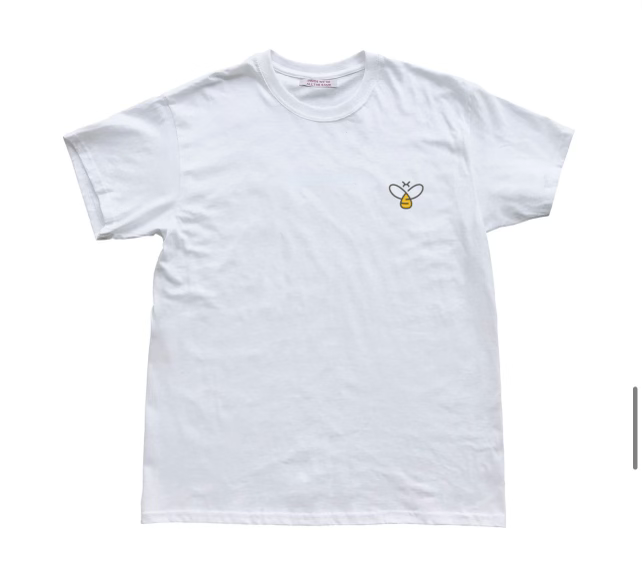
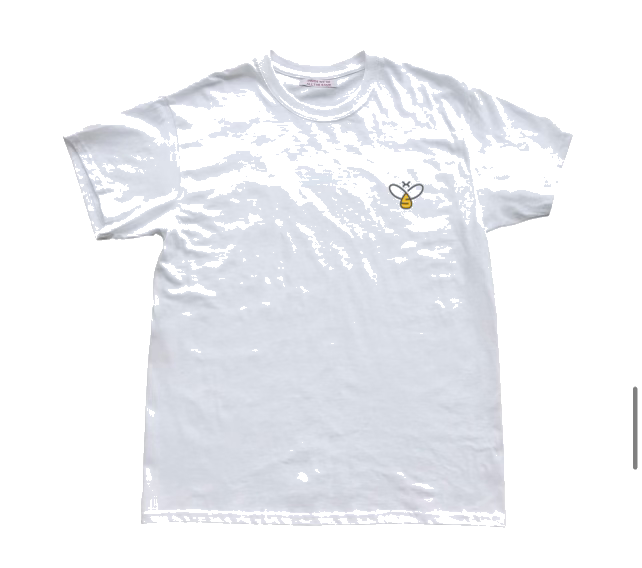
feat: added cursor to shop.html style: added footer to shop style: fixed white bg in whitetee.png

diff --git a/about.html b/about.html
@@ -1,110 +1,106 @@
 <!DOCTYPE html>
 <html lang="en">
-<head>
-    <meta charset="UTF-8">
-    <meta name="viewport" content="width=device-width, initial-scale=1.0">
-    <meta http-equiv="X-UA-Compatible" content="ie=edge">
-    <link rel="preconnect" href="https://fonts.googleapis.com">
-    <link rel="preconnect" href="https://fonts.gstatic.com" crossorigin>
-    <link href="https://fonts.googleapis.com/css2?family=Markazi+Text&display=swap" rel="stylesheet">
-    <link rel="stylesheet" href="styles.css" type="text/css" />
-    <link rel="stylesheet" href="about.css" type="text/css" />
-    <title>about</title>
-</head>
-<body>
-    <nav>
-        <div class="nav-logo">
+   <head>
+      <meta charset="UTF-8">
+      <meta name="viewport" content="width=device-width, initial-scale=1.0">
+      <meta http-equiv="X-UA-Compatible" content="ie=edge">
+      <link rel="preconnect" href="https://fonts.googleapis.com">
+      <link rel="preconnect" href="https://fonts.gstatic.com" crossorigin>
+      <link href="https://fonts.googleapis.com/css2?family=Markazi+Text&display=swap" rel="stylesheet">
+      <link rel="stylesheet" href="styles.css" type="text/css" />
+      <link rel="stylesheet" href="about.css" type="text/css" />
+      <title>about</title>
+   </head>
+   <body>
+      <nav>
+         <div class="nav-logo">
             <div class="beelogo">
-                <a href= "home.html"><img class= "headlogo"src="images/logobee.png"></img></a>
+               <a href= "home.html"><img class= "headlogo"src="images/logobee.png"></img></a>
             </div>
             <div class="nav-header"></div>
             <h1 class= "title" href= "home.html">For The Bee's</h1>
-        </div>
-        <ul>
+         </div>
+         <ul>
             <li class= "shop"><a href= "shop.html">Shop</a></li>
             <li class= "donate"><a href="donate.html">Donate</a></li>
             <li class= "aboutus"><a href="about.html">About Us</a></li>
-        </ul>
-    </nav>
-    
-    <main>
-        <h1 class="PageTitle">About Us</h1>
-        <section class="CompanyBio">
-            
+         </ul>
+      </nav>
+      <main>
+         <h1 class="PageTitle">About Us</h1>
+         <section class="CompanyBio">
             <p>We started For The Bee’s in March 2012 after reading the global agricultural and wildlife report on the state of wildlife in the new decade. Back when, YOLO and selfies were a pop-culture phenomenon. It was a devastating read and with the Colony Collapse Disorder which meant losing our bee population and the ability to pollinate fruits and vegetables. We were disheartened with the state of the bee world. Consumed with compassion for these mighty creatures it was easy to get lost into a frenzy of doom and despair however, we rose up above it; and so, we created For The Bees. A non-profit company that restores bee colonies, where we build new hives to conserve and create new bee populations, we also make an effort to bring this conversation to the front of the American consciousness. With each donation, you get a bee to track and for every dollar donated you get the converted weight of honey sent to you every month. We also allocate 75% of all proceeds from our shop to restoring bee colonies all along the east coast of North America. </p>
-           <h4>Why should you care?</h4> 
-           <p>Honey bees are among the most numerous and efficient pollinator species in the world. Considering that the average honey bee can visit more than 2,000 flowers in one day, these bees greatly increase the chances of a plant producing a fruit or vegetable.<br><br>
+            <h4>Why should you care?</h4>
+            <p>Honey bees are among the most numerous and efficient pollinator species in the world. Considering that the average honey bee can visit more than 2,000 flowers in one day, these bees greatly increase the chances of a plant producing a fruit or vegetable.<br><br>
                Honey bees are the species most commonly used as commercial pollinators in the US. They are managed and used to pollinate over 100 crops grown in North America, and contribute $15 billion to the US economy every year. Many crops, such as almonds, which contribute $4.8 billion to the US industry each year, rely on honey bees for more than 90% of their pollination.<br><br>
-                   But honey bees don’t only pollinate crops-- they also pollinate wild and native plants, thus contributing to all the environmental and societal benefits attributed to pollinators in general above.<br><br>
-                    Last year, in 2016, 44% of managed beehives in the US died. The number of managed honey bee colonies in the United States has declined steadily over the past 60 years, from 6 million colonies (beehives) in 1947 to 4 million in 1970, 3 million in 1990, and just 2.5 million today. Overwintering loss rates have increased from the historical rate of 10-15% to approximately 30%, and beekeepers have collectively lost approximately 10 million beehives.
+               But honey bees don’t only pollinate crops-- they also pollinate wild and native plants, thus contributing to all the environmental and societal benefits attributed to pollinators in general above.<br><br>
+               Last year, in 2016, 44% of managed beehives in the US died. The number of managed honey bee colonies in the United States has declined steadily over the past 60 years, from 6 million colonies (beehives) in 1947 to 4 million in 1970, 3 million in 1990, and just 2.5 million today. Overwintering loss rates have increased from the historical rate of 10-15% to approximately 30%, and beekeepers have collectively lost approximately 10 million beehives.
             </p>
-            
             <h4>What can you do to help?</h4>
             <ol>
-                <li>Donate!</li><br>
-                <p>Donating is one of the most direct ways you can help For The Bee's. You may commit to a long-term impact by giving a monthly, quarterly, or annual donation that will ensure our environmental educators will keep spreading the word to save the bees for years to come!</p><br><br>
-                
-                <li>Start a Facebook fundraiser!</li><br>
-                <p>Help get others buzzing about For The Bee's by starting a Facebook fundraiser! Whether for your birthday or another occasion, set up a fundraiser to inspire your friends to help Planet Bee. Any donation, however big or small, will aid us in our mission to create a green-minded generation through environmental stewardship, using the lens of the struggling honey bee to teach the power of individual action. </p><br><br>
-                
-                <li>Shop through our site</li><br>
-                <p>By ordering For The Bee's merchandise, you will not only look un-bee-lievably cute in our comfy sweatshirts or sporty in our premium tank tops, but you will also be supporting our cause!</p><br><br>
-                
-                <li>Donate via philanthropic services!</li><br>
-                <p>If your workplace allows you to donate your volunteer hours through companies like Deed, Benevity, and YourCause, consider giving to For The Bee's! Platforms such as these enable and empower you to do good, through volunteering, fundraising, and cause-focused campaigns, while ensuring the impact on communities is tangible, like donations to nonprofits. If your employer is not currently participating in these, or any other, philanthropic services, consider recommending one, as the benefits are incredibly impactful!</p>
+               <li>Donate!</li>
+               <br>
+               <p>Donating is one of the most direct ways you can help For The Bee's. You may commit to a long-term impact by giving a monthly, quarterly, or annual donation that will ensure our environmental educators will keep spreading the word to save the bees for years to come!</p>
+               <br><br>
+               <li>Start a Facebook fundraiser!</li>
+               <br>
+               <p>Help get others buzzing about For The Bee's by starting a Facebook fundraiser! Whether for your birthday or another occasion, set up a fundraiser to inspire your friends to help Planet Bee. Any donation, however big or small, will aid us in our mission to create a green-minded generation through environmental stewardship, using the lens of the struggling honey bee to teach the power of individual action. </p>
+               <br><br>
+               <li>Shop through our site</li>
+               <br>
+               <p>By ordering For The Bee's merchandise, you will not only look un-bee-lievably cute in our comfy sweatshirts or sporty in our premium tank tops, but you will also be supporting our cause!</p>
+               <br><br>
+               <li>Donate via philanthropic services!</li>
+               <br>
+               <p>If your workplace allows you to donate your volunteer hours through companies like Deed, Benevity, and YourCause, consider giving to For The Bee's! Platforms such as these enable and empower you to do good, through volunteering, fundraising, and cause-focused campaigns, while ensuring the impact on communities is tangible, like donations to nonprofits. If your employer is not currently participating in these, or any other, philanthropic services, consider recommending one, as the benefits are incredibly impactful!</p>
             </ol>
-            
-            
-        </section>
-        
-        
-        <div class="MeetTheTeam">
+         </section>
+         <div class="MeetTheTeam">
             <h3 class="cardstitle">Meet The Team</h3>
-        </div>
-        <section class="cards">
+         </div>
+         <section class="cards">
             <div class="card1">
-                <img src="images/shad.jpg" alt="Shadman Chowdhury" >
-                <h3>Shadman Chowdhury, 22    New York</h3>
-                <h4><strong>Marcy Lab School Fellow</strong></h4>
-                <br>
-                <p>Lorem ipsum dolor sit amet, consectetur adipisicing elit. Repellat fugiat quasi, voluptatibus tempore labore nisi veritatis pariatur explicabo at, quod itaque molestiae. Accusantium, earum minus.</p>
+               <img src="images/shad.jpg" alt="Shadman Chowdhury" >
+               <h3>Shadman Chowdhury, 22    New York</h3>
+               <h4><strong>Marcy Lab School Fellow</strong></h4>
+               <br>
+               <p>Lorem ipsum dolor sit amet, consectetur adipisicing elit. Repellat fugiat quasi, voluptatibus tempore labore nisi veritatis pariatur explicabo at, quod itaque molestiae. Accusantium, earum minus.</p>
             </div>
             <div class="card2">
-                <img src="images/Sum.jpg" alt="Sumaira Khan" >
-                <h3>Sumaira Khan, 19    New York</h3>
-                <h4><strong>Marcy Lab School Fellow</strong></h4>
-                <br>
-                <p>Lorem ipsum dolor sit amet, consectetur adipisicing elit. Repellat fugiat quasi, voluptatibus tempore labore nisi veritatis pariatur explicabo at, quod itaque molestiae. Accusantium, earum minus.</p>
+               <img src="images/Sum.jpg" alt="Sumaira Khan" >
+               <h3>Sumaira Khan, 19    New York</h3>
+               <h4><strong>Marcy Lab School Fellow</strong></h4>
+               <br>
+               <p>Lorem ipsum dolor sit amet, consectetur adipisicing elit. Repellat fugiat quasi, voluptatibus tempore labore nisi veritatis pariatur explicabo at, quod itaque molestiae. Accusantium, earum minus.</p>
             </div>
             <div class="card3">
-                <img src="images/Noel.jpg" alt="Noel Fernandez" >
-                <h3>Noel Fernandez, 23    New York</h3>
-                <h4><strong>Marcy Lab School Fellow</strong></h4>
-                <br>
-                <p>Lorem ipsum dolor sit amet, consectetur adipisicing elit. Repellat fugiat quasi, voluptatibus tempore labore nisi veritatis pariatur explicabo at, quod itaque molestiae. Accusantium, earum minus.</p>
+               <img src="images/Noel.jpg" alt="Noel Fernandez" >
+               <h3>Noel Fernandez, 23    New York</h3>
+               <h4><strong>Marcy Lab School Fellow</strong></h4>
+               <br>
+               <p>Lorem ipsum dolor sit amet, consectetur adipisicing elit. Repellat fugiat quasi, voluptatibus tempore labore nisi veritatis pariatur explicabo at, quod itaque molestiae. Accusantium, earum minus.</p>
             </div>
-        </section>
-    </main>
-    <footer>
-        <ul>
+         </section>
+      </main>
+      <footer>
+         <ul>
             <li>Contact Us</li>
             <li class="FooterSocial">Social Media</li>
-                <ul>
-                    <li>Facebook</li>
-                    <li>Instagram</li>
-                    <li>LinkedIn</li>
-                </ul>
+            <ul>
+               <li>Facebook</li>
+               <li>Instagram</li>
+               <li>LinkedIn</li>
+            </ul>
             <li>Careers</li>
-        </ul>
-        
-        <div class="FooterFloor">
+         </ul>
+         <div class="FooterFloor">
             <p>Copyright © 2022. ForTheBees.com All rights reserved. Made by Marcy Lab Fellows</p>
             <ul class="FooterFloorList">
-                <li>Terms & Conditions</li>
-                <p>|</p>
-                <li>Cookies & Privacy Policy</li>
+               <li>Terms & Conditions</li>
+               <p>|</p>
+               <li>Cookies & Privacy Policy</li>
             </ul>
-        </div>
-    </footer>
-</body>
+         </div>
+      </footer>
+   </body>
 </html>

diff --git a/donate.html b/donate.html
@@ -1,19 +1,19 @@
 <!DOCTYPE html>
 <html lang="en">
-<head>
-    <meta charset="UTF-8">
-    <meta name="viewport" content="width=device-width, initial-scale=1.0">
-    <meta http-equiv="X-UA-Compatible" content="ie=edge">
-    <link rel="preconnect" href="https://fonts.googleapis.com">
-    <link rel="preconnect" href="https://fonts.gstatic.com" crossorigin>
-    <link href="https://fonts.googleapis.com/css2?family=Markazi+Text&display=swap" rel="stylesheet">
-    <link rel="stylesheet" href="home.css" type="text/css" />
-    <link rel="stylesheet" href="grid.css" type="text/css" />
-    <title>donate</title>
-</head>
-<body>
-    <main class= "donatecontainer">
-        <nav>
+   <head>
+      <meta charset="UTF-8">
+      <meta name="viewport" content="width=device-width, initial-scale=1.0">
+      <meta http-equiv="X-UA-Compatible" content="ie=edge">
+      <link rel="preconnect" href="https://fonts.googleapis.com">
+      <link rel="preconnect" href="https://fonts.gstatic.com" crossorigin>
+      <link href="https://fonts.googleapis.com/css2?family=Markazi+Text&display=swap" rel="stylesheet">
+      <link rel="stylesheet" href="home.css" type="text/css" />
+      <link rel="stylesheet" href="grid.css" type="text/css" />
+      <title>donate</title>
+   </head>
+   <body>
+      <main class= "donatecontainer">
+         <nav>
             <div class="nav-heart">
                <div class="heartlogo">
                   <a href= "home.html"><img class= "heart" src="images/heart.png"></img></a>
@@ -28,29 +28,27 @@
             </ul>
          </nav>
          <content>
-             <header>
-                 <div class= "change">
-                     <h1 class= "realchange">make a real change</h1>
-                     <img src="images/trail.png"></img>
-                     <form action="https://www.paypal.com/donate" method="post" target="_top">
+            <header>
+               <div class= "change">
+                  <h1 class= "realchange">make a real change</h1>
+                  <img src="images/trail.png"></img>
+                  <form action="https://www.paypal.com/donate" method="post" target="_top">
                      <input type="hidden" name="business" value="228P5UN66MCM8" />
                      <input type="hidden" name="no_recurring" value="0" />
                      <input type="hidden" name="item_name" value="All donations will go to thebeeconservancy.org" />
                      <input type="hidden" name="currency_code" value="USD" />
                      <input type="image" src="images/donatebutton.png" border="0" name="submit" title="PayPal - The safer, easier way to pay online!" alt="Donate with PayPal button" />
                      <img class= "donatebutton"alt="" border="0" src="https://www.paypal.com/en_US/i/scr/pixel.gif" width="1" height="1" />
-                     </form>
-                 </div>
-                 <div class= "whychange">
-                     <p>Lorem ipsum dolor sit amet, consectetur adipiscing elit, sed do eiusmod tempor incididunt ut labore et dolore magna aliqua. Nullam ac tortor vitae purus faucibus. Condimentum vitae sapien pellentesque habitant morbi tristique senectus. Feugiat sed lectus vestibulum mattis. Duis tristique sollicitudin nibh sit amet commodo. Augue eget arcu dictum varius duis at consectetur lorem. Fusce ut placerat orci nulla pellentesque. Pharetra magna ac placerat vestibulum lectus. Amet porttitor eget dolor morbi non arcu. Arcu risus quis varius quam.
-
-                        Massa enim nec dui nunc mattis enim ut tellus elementum. Risus at ultrices mi tempus. Semper risus in hendrerit gravida rutrum quisque non tellus. Ullamcorper sit amet risus nullam eget. Nulla facilisi morbi tempus iaculis urna id volutpat lacus laoreet. Massa vitae tortor condimentum lacinia quis vel. Tincidunt id aliquet risus feugiat. Nunc id cursus metus aliquam eleifend mi in nulla. Arcu cursus euismod quis viverra nibh cras pulvinar. Auctor augue mauris augue neque gravida in fermentum et sollicitudin. Quis viverra nibh cras pulvinar mattis nunc sed blandit. Dignissim diam quis enim lobortis scelerisque fermentum dui faucibus in. Cursus turpis massa tincidunt dui ut ornare lectus. Nunc lobortis mattis aliquam faucibus purus in. Mauris pharetra et ultrices neque ornare aenean euismod. Orci sagittis eu volutpat odio facilisis mauris sit. In ornare quam viverra orci. Sed viverra tellus in hac habitasse platea. Nunc sed id semper risus in hendrerit gravida.
-
-                        Imperdiet nulla malesuada pellentesque elit eget gravida cum sociis. Venenatis tellus in metus vulputate eu scelerisque felis. Malesuada bibendum arcu vitae elementum curabitur vitae. Enim sed faucibus turpis in eu. Venenatis tellus in metus vulputate. Arcu risus quis varius quam quisque id. Urna cursus eget nunc scelerisque viverra mauris. Mauris nunc congue nisi vitae suscipit. Dignissim sodales ut eu sem integer vitae. Est sit amet facilisis magna etiam tempor. A cras semper auctor neque vitae tempus quam pellentesque nec.</p>
-                 </div>
-             </header>
+                  </form>
+               </div>
+               <div class= "whychange">
+                  <p>Lorem ipsum dolor sit amet, consectetur adipiscing elit, sed do eiusmod tempor incididunt ut labore et dolore magna aliqua. Nullam ac tortor vitae purus faucibus. Condimentum vitae sapien pellentesque habitant morbi tristique senectus. Feugiat sed lectus vestibulum mattis. Duis tristique sollicitudin nibh sit amet commodo. Augue eget arcu dictum varius duis at consectetur lorem. Fusce ut placerat orci nulla pellentesque. Pharetra magna ac placerat vestibulum lectus. Amet porttitor eget dolor morbi non arcu. Arcu risus quis varius quam.
+                     Massa enim nec dui nunc mattis enim ut tellus elementum. Risus at ultrices mi tempus. Semper risus in hendrerit gravida rutrum quisque non tellus. Ullamcorper sit amet risus nullam eget. Nulla facilisi morbi tempus iaculis urna id volutpat lacus laoreet. Massa vitae tortor condimentum lacinia quis vel. Tincidunt id aliquet risus feugiat. Nunc id cursus metus aliquam eleifend mi in nulla. Arcu cursus euismod quis viverra nibh cras pulvinar. Auctor augue mauris augue neque gravida in fermentum et sollicitudin. Quis viverra nibh cras pulvinar mattis nunc sed blandit. Dignissim diam quis enim lobortis scelerisque fermentum dui faucibus in. Cursus turpis massa tincidunt dui ut ornare lectus. Nunc lobortis mattis aliquam faucibus purus in. Mauris pharetra et ultrices neque ornare aenean euismod. Orci sagittis eu volutpat odio facilisis mauris sit. In ornare quam viverra orci. Sed viverra tellus in hac habitasse platea. Nunc sed id semper risus in hendrerit gravida.
+                     Imperdiet nulla malesuada pellentesque elit eget gravida cum sociis. Venenatis tellus in metus vulputate eu scelerisque felis. Malesuada bibendum arcu vitae elementum curabitur vitae. Enim sed faucibus turpis in eu. Venenatis tellus in metus vulputate. Arcu risus quis varius quam quisque id. Urna cursus eget nunc scelerisque viverra mauris. Mauris nunc congue nisi vitae suscipit. Dignissim sodales ut eu sem integer vitae. Est sit amet facilisis magna etiam tempor. A cras semper auctor neque vitae tempus quam pellentesque nec.
+                  </p>
+               </div>
+            </header>
          </content>
-    </main>
-    
-</body>
+      </main>
+   </body>
 </html>

diff --git a/shop.html b/shop.html
@@ -16,7 +16,7 @@
    <nav>
         <div class="nav-logo">
             <div class="beelogo">
-                <img class= "headlogo"src="images/logobee.png"></img>
+                <a href= "home.html"><img class= "headlogo"src="images/logobee.png"></img></a>
             </div>
             <div class="nav-header"></div>
             <h1 class= "title" href= "home.html">For The Bee's</h1>
@@ -67,5 +67,26 @@
      <figcaption class="caption">$14.99</figcaption>
     </figure>
     </hero>
+    <footer>
+        <ul>
+            <li>Contact Us</li>
+            <li class="FooterSocial">Social Media</li>
+                <ul>
+                    <li>Facebook</li>
+                    <li>Instagram</li>
+                    <li>LinkedIn</li>
+                </ul>
+            <li>Careers</li>
+        </ul>
+        
+        <div class="FooterFloor">
+            <p>Copyright © 2022. ForTheBees.com All rights reserved. Made by Marcy Lab Fellows</p>
+            <ul class="FooterFloorList">
+                <li>Terms & Conditions</li>
+                <p>|</p>
+                <li>Cookies & Privacy Policy</li>
+            </ul>
+        </div>
+    </footer>
 </body>
 </html>

diff --git a/home.html b/home.html
@@ -39,15 +39,25 @@
                </h1>
             </div>
          </section>
+         <footer>
+         <ul>
+            <li>Contact Us</li>
+            <li class="FooterSocial">Social Media</li>
+            <ul>
+               <li>Facebook</li>
+               <li>Instagram</li>
+               <li>LinkedIn</li>
+            </ul>
+            <li>Careers</li>
+         </ul>
          <div class="FooterFloor">
             <p>Copyright © 2022. ForTheBees.com All rights reserved. Made by Marcy Lab Fellows</p>
             <ul class="FooterFloorList">
-                <li>Terms & Conditions</li>
-                <p>|</p>
-                <li>Cookies & Privacy Policy</li>
+               <li>Terms & Conditions</li>
+               <p>|</p>
+               <li>Cookies & Privacy Policy</li>
             </ul>
-        </div>
+         </div>
       </main>
    </body>
 </html>
-

diff --git a/styles.css b/styles.css
@@ -1,6 +1,7 @@
 *{
     margin: 0;
     padding: 0;
+    cursor: url("images/cursor.png"), auto;
 }
 
 body{
@@ -88,4 +89,15 @@ a:hover{
     font-family: 'Markazi Text', serif;
     font-size: 25px;
     text-align: center;
+}
+
+footer{
+    background-color: grey;
+    border-radius: 15px 15px 0px 0px;
+    padding: 10px 10px 2px 10px;
+}
+
+.FooterFloor{
+    display: grid;
+    grid-template-columns: 1fr 1fr;
 }
